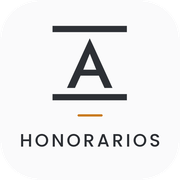
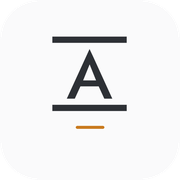
Add files via upload

Changed region(s): [[0.2778, 0.1389, 0.7222, 0.6667], [0.1111, 0.6944, 0.8889, 0.8333]]

diff --git a/index.html b/index.html
@@ -3,7 +3,7 @@
 <meta charset="utf-8"><meta name="viewport" content="width=device-width,initial-scale=1">
 <title>Calculadora de Honorarios ICALI · Artigas Abogados</title>
[2 lines of base64/hex data omitted]
+<link rel="apple-touch-icon" href="apple-touch-icon.png">
[1 lines of base64/hex data omitted]
 <link rel="preconnect" href="https://fonts.googleapis.com"><link rel="preconnect" href="https://fonts.gstatic.com" crossorigin>
 <link href="https://fonts.googleapis.com/css2?family=Geist:wght@400;500;600;700&family=Geist+Mono:wght@400;500&family=Jost:wght@500;600;700&display=swap" rel="stylesheet">
